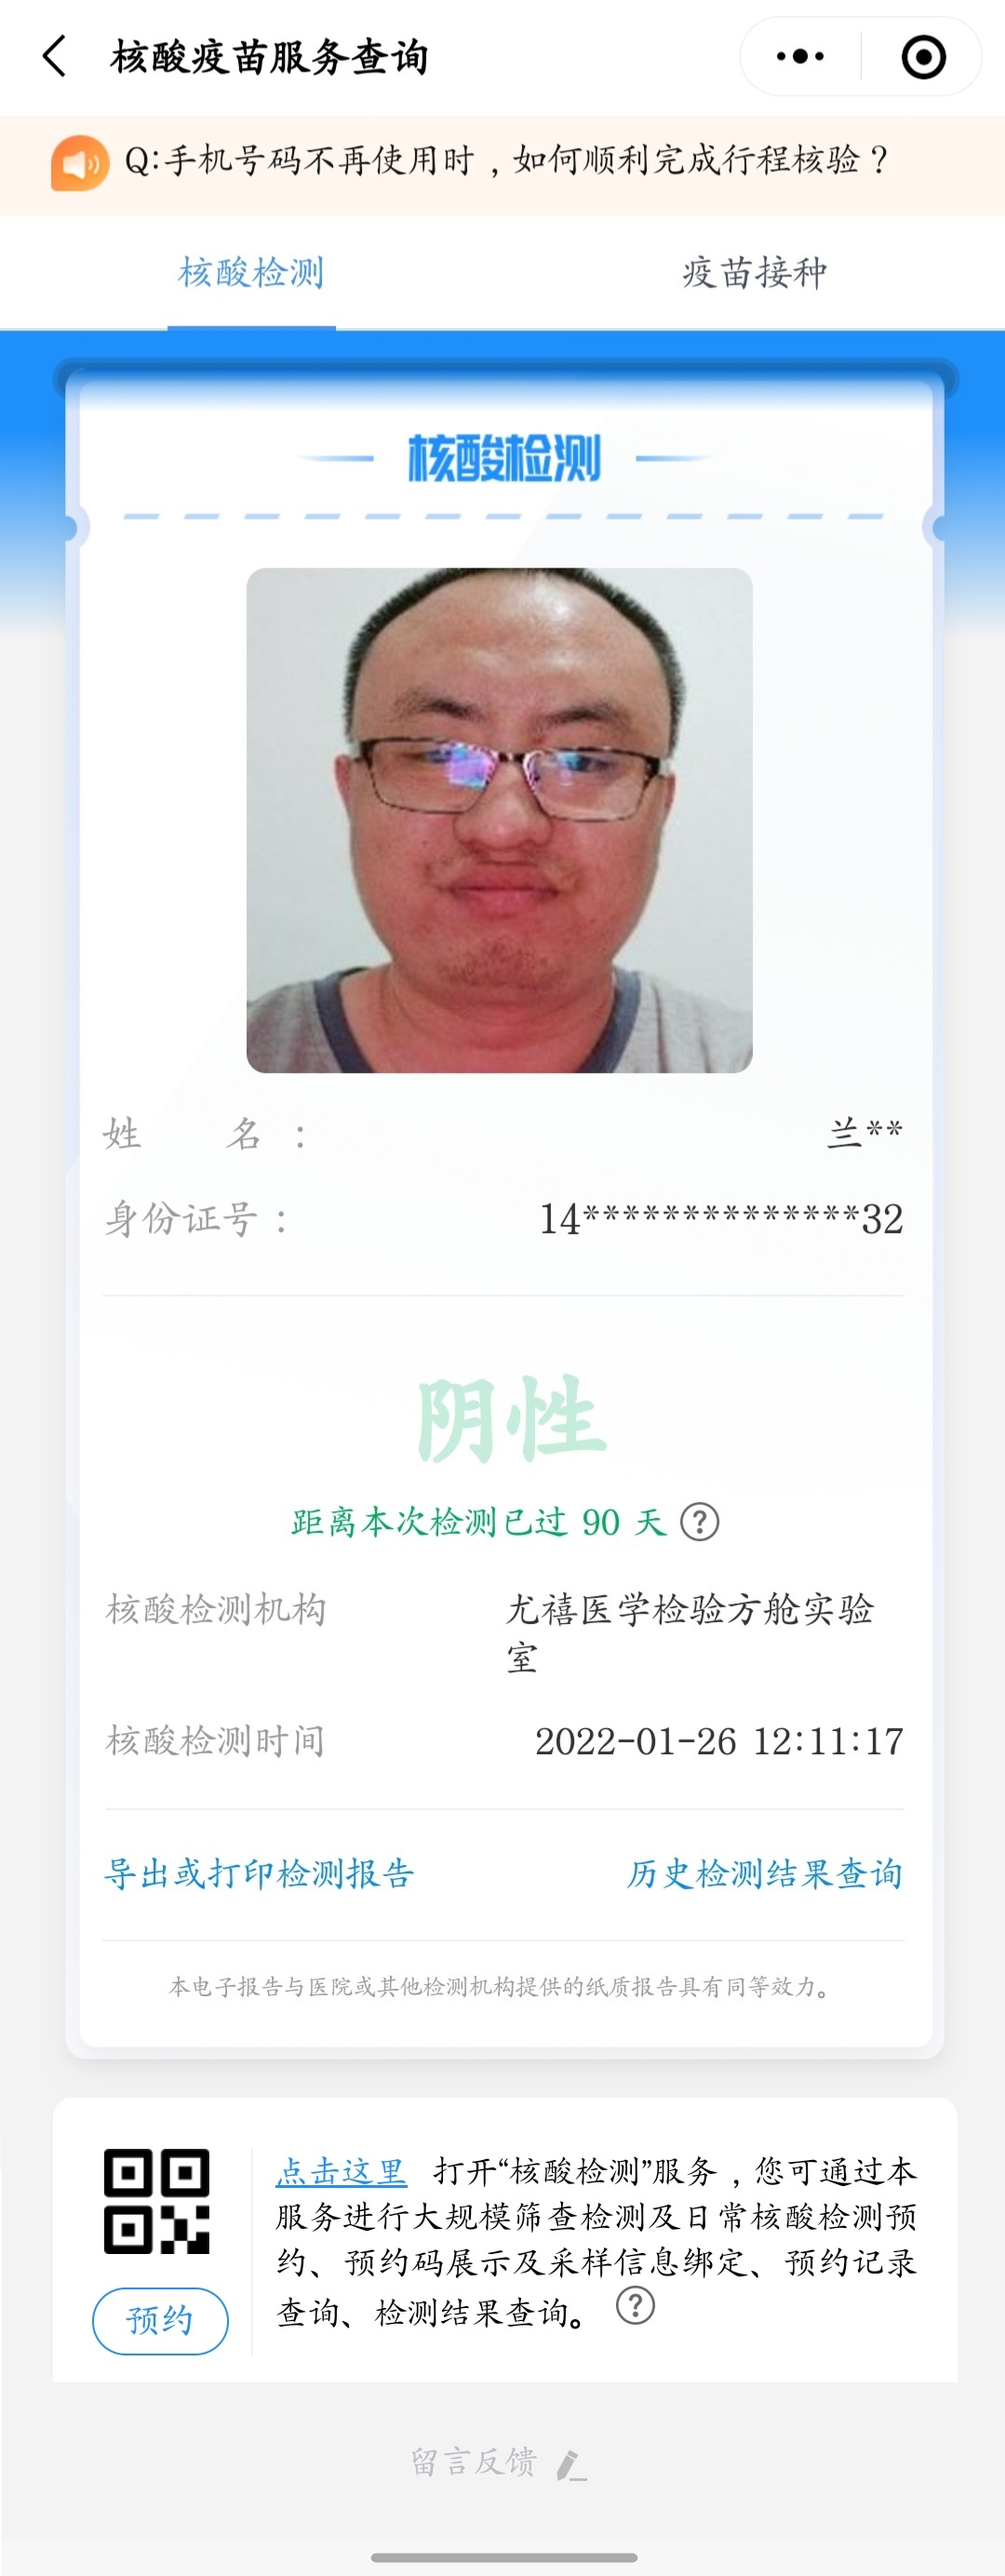
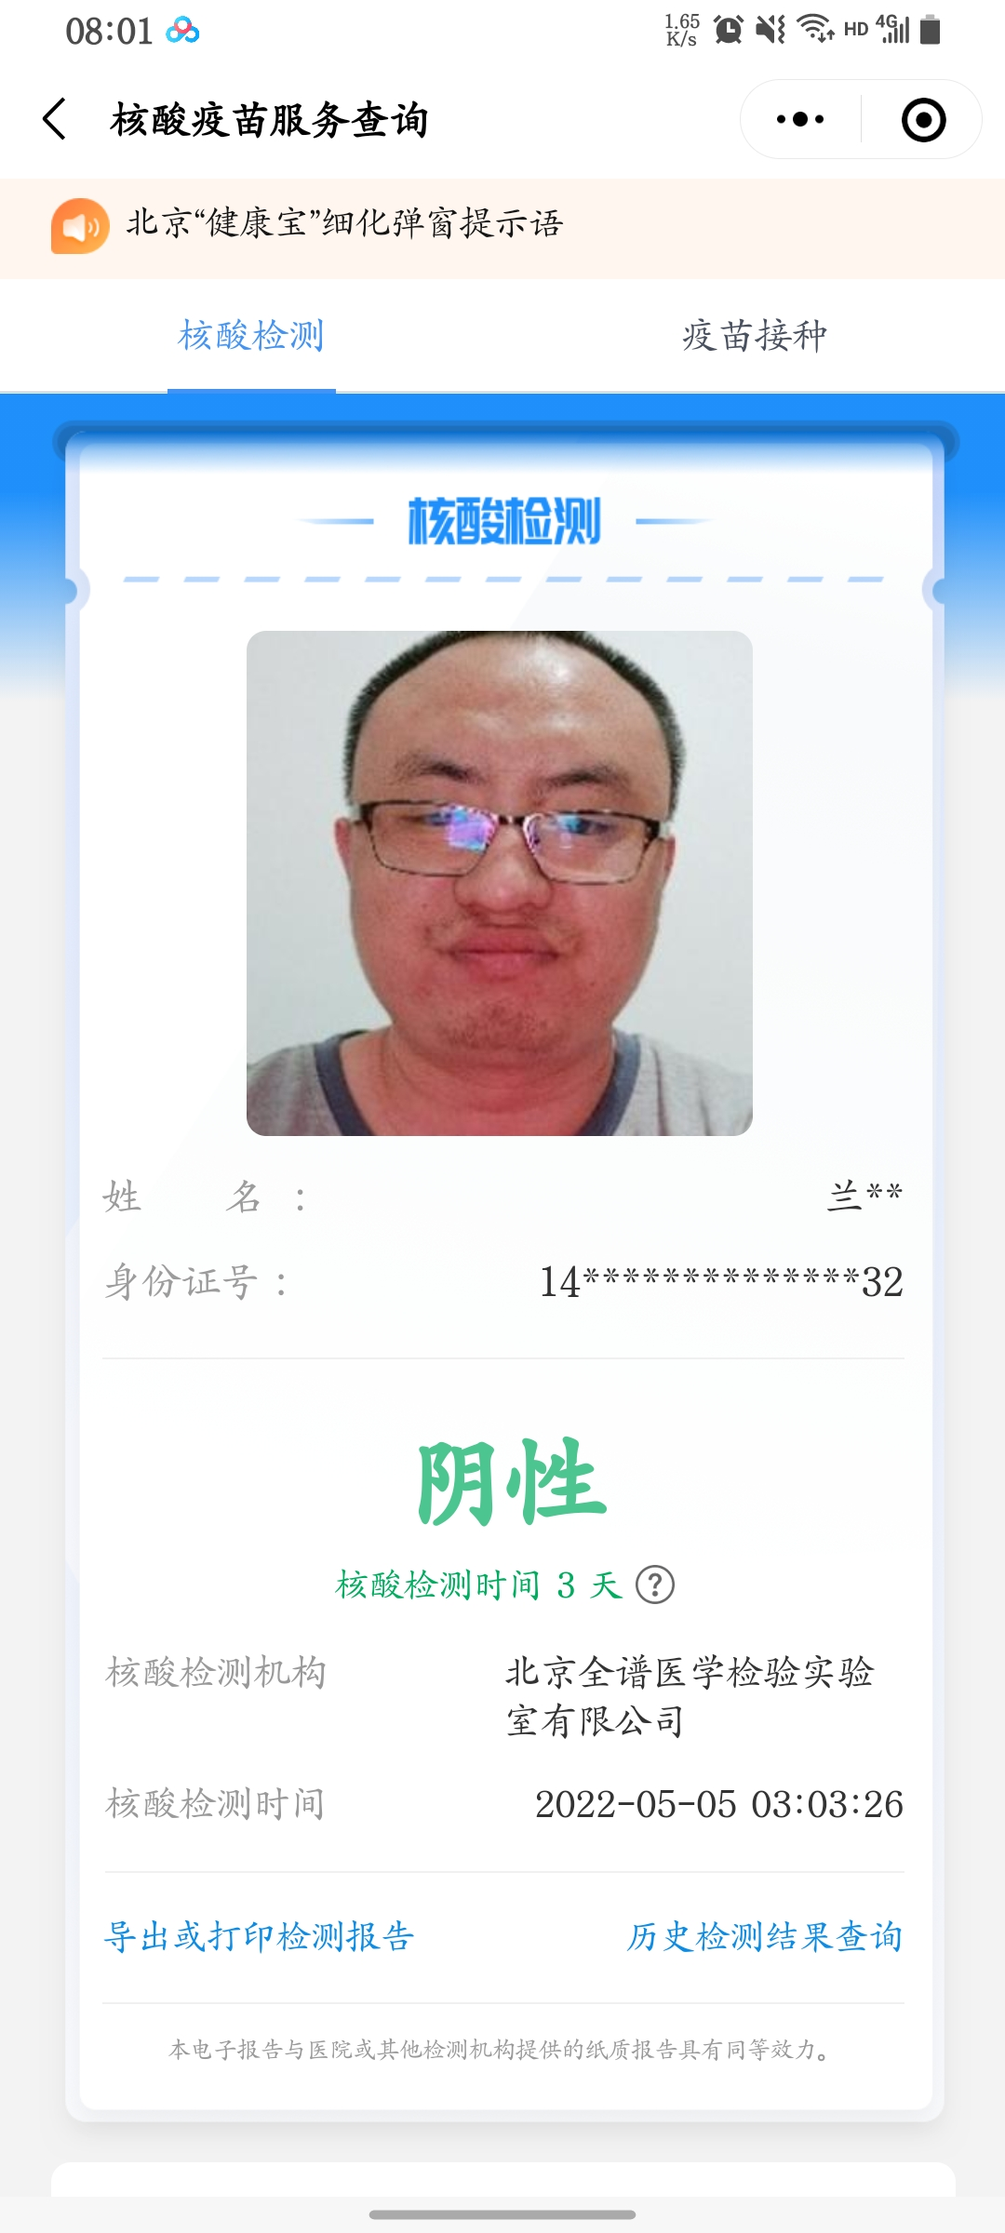
资源

diff --git a/bjhs.html b/bjhs.html
@@ -10,7 +10,7 @@
             z-index: 100;
             background: url("img/bjhss2.jpg") no-repeat center;
             background-color: white;
-            top:600px;
+            top:680px;
             left: 270px;
             height: 580px;
             width: 550px;
@@ -20,7 +20,7 @@
             z-index: 100;
             background: url("img/bjhss2h.jpg") no-repeat center;
             background-color: white;
-            top:600px;
+            top:680px;
             left: 270px;
             height: 580px;
             width: 550px;
@@ -30,7 +30,7 @@
             z-index: 100;
             background: url("img/bjhsd.jpg") no-repeat center;
             background-color: white;
-            top:600px;
+            top:680px;
             left: 270px;
             height: 580px;
             width: 550px;
@@ -38,7 +38,7 @@
         .auto-style2{
             position: absolute;
             z-index: 100;
-            top:1200px;
+            top:1260px;
             left: 890px;
             height: 50px;
             width: 50px;
@@ -50,7 +50,7 @@
         .auto-style3{
             position: absolute;
             z-index: 100;
-            top:1285px;
+            top:1353px;
             left: 580px;
             height: 50px;
             width: 50px;
@@ -62,7 +62,7 @@
         .auto-style4{
             position: absolute;
             z-index: 100;
-            top:1285px;
+            top:1353px;
             left: 930px;
             height: 50px;
             width: 50px;
@@ -74,7 +74,7 @@
         .auto-style5{
             position: absolute;
             z-index: 100;
-            top:1465px;
+            top:1530px;
             left: 450px;
             height: 120px;
             width: 210px;
@@ -89,10 +89,10 @@
         .auto-style6{
             position: absolute;
             z-index: 100;
-            top:1618px;
+            top:1680px;
             left: 310px;
             height: 50px;
-            width: 415px;
+            width: 380px;
             font-family: 华文楷体;
             font-size: 43px;
             text-align: center;
@@ -103,12 +103,12 @@
         .auto-style7{
             position: absolute;
             z-index: 100;
-            top:1850px;
+            top:1920px;
             left: 580px;
             height: 50px;
             width: 410px;
             font-family: 华文楷体;
-            font-size: 40px;
+            font-size: 45px;
             background-color: white;
         }
     </style>
@@ -147,7 +147,7 @@
         date1=bjhsrq;
         $(".auto-style7").html(bjhsrq);
         const day=parseInt(getDaysBetween(date1.split(' ')[0],date2),10);
-        $(".auto-style6").html("距离本次检测已过"+day+"天");
+        $(".auto-style6").html("核酸检测时间"+day+"天");
         setInterval("showTag()",1000);
     })
 
